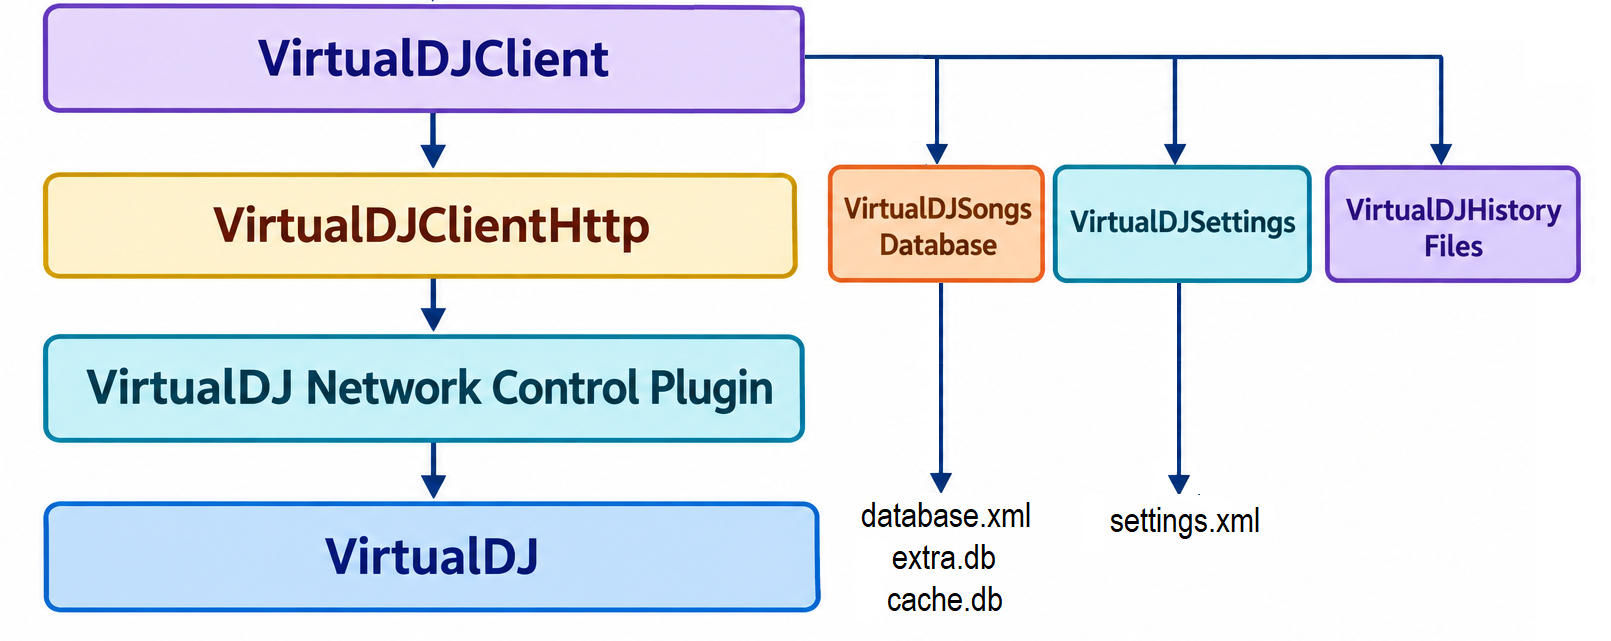
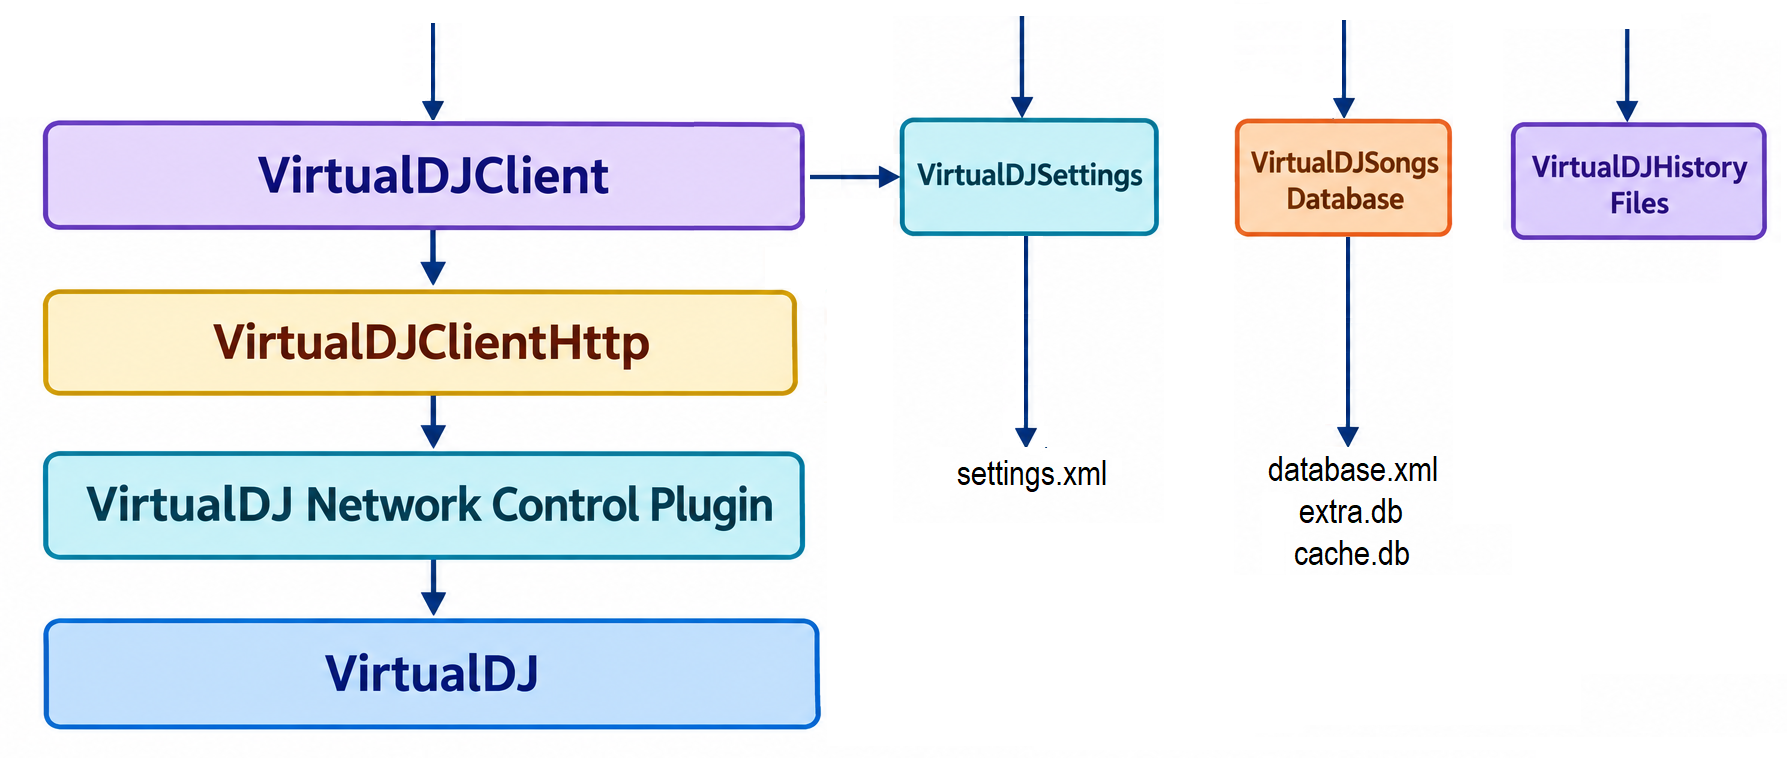
update

diff --git a/src/main_gui.py b/src/main_gui.py
@@ -32,8 +32,8 @@ from virtualdj_client import __version__ as __vdjclient_version__
 class VirtualDJMonitor(tk.Tk):
     def __init__(self):
         self.controller = self
-        self.vdj_client_log = VdjClientLog(self.controller)
         self.client = VirtualDJClient(self.controller)
+        self.vdj_client_log = VdjClientLog(self.controller)
         self.songsDB = VirtualDJSongsDatabase(self.controller)
         self._init_vdj_client()
         self._create_window(self.controller)
@@ -67,7 +67,7 @@ class VirtualDJMonitor(tk.Tk):
         self.vdj_client_log.save_client_log(msg=strMsgLog, parent_name=__name__, level="INFO")
         if (client_connected == False):
             strMsgLog = "Check that the NetWork Control plugin is available and activated in VirtualDJ"
-            self.client_log.save_client_log(msg=strMsgLog, parent_name=__name__, level="ERROR")
+            self.vdj_client_log.save_client_log(msg=strMsgLog, parent_name=__name__, level="ERROR")
             sys.exit()
     #------------------------------------------------------------------------------------
     def _create_window(self, controller):
